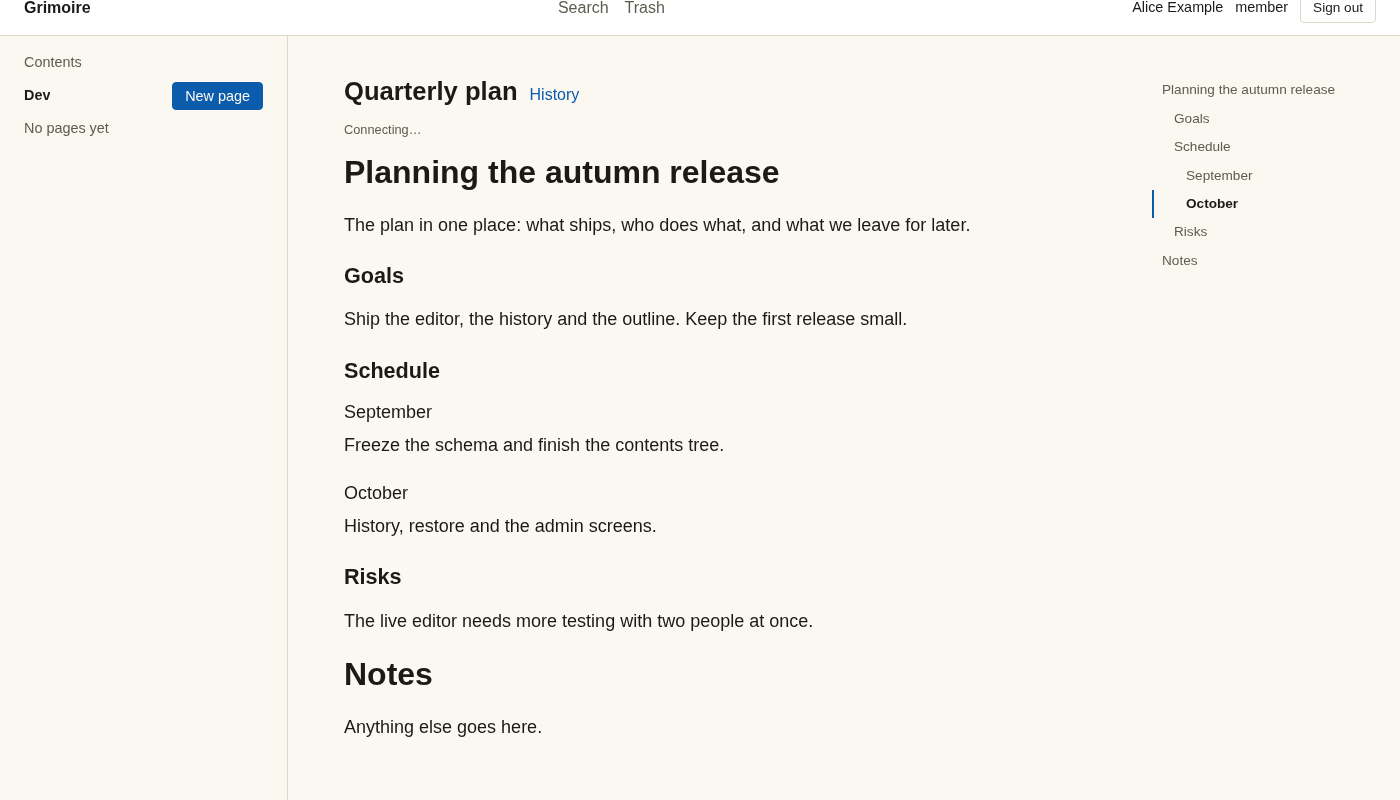
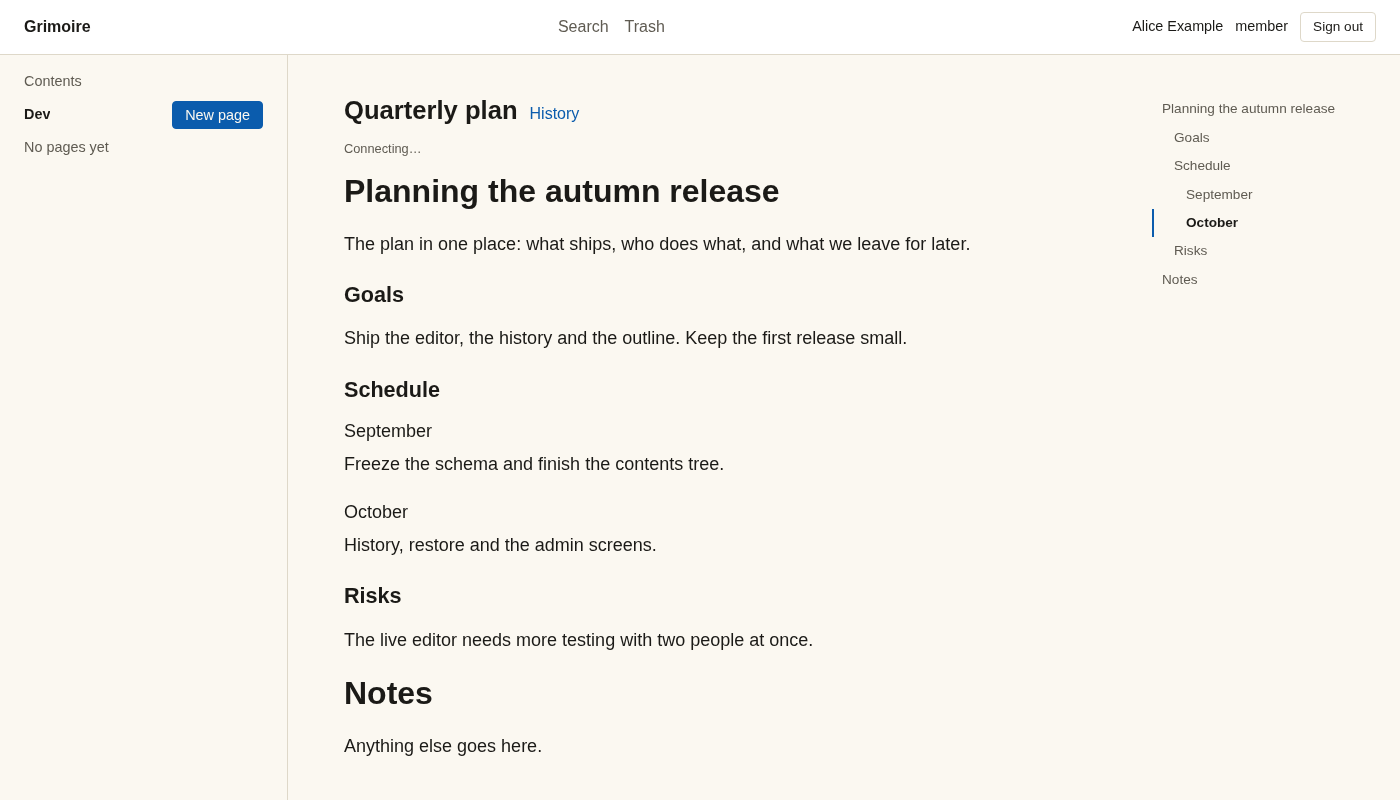
fix(web): the outline leaves a visible heading where it is; shots retaken with the header in view

diff --git a/apps/web/test/outline/outline.test.tsx b/apps/web/test/outline/outline.test.tsx
@@ -72,6 +72,20 @@ describe('the outline of a page', () => {
     expect(document.activeElement).toBe(editor);
   });
 
+  it('leaves the page where it is when the heading is already in the window, and brings it to the middle when it is not', async () => {
+    const { editor } = renderPage([[1, 'A'], [1, 'B']]);
+    await settle();
+    const target = editor.querySelectorAll('h1')[1] as HTMLElement;
+    const scroll = vi.fn();
+    target.scrollIntoView = scroll;
+    target.getBoundingClientRect = () => ({ top: 100, bottom: 140 }) as DOMRect;
+    await userEvent.click(screen.getByRole('link', { name: 'B' }));
+    expect(scroll).toHaveBeenLastCalledWith({ block: 'nearest' });
+    target.getBoundingClientRect = () => ({ top: 5000, bottom: 5040 }) as DOMRect;
+    await userEvent.click(screen.getByRole('link', { name: 'B' }));
+    expect(scroll).toHaveBeenLastCalledWith({ block: 'center' });
+  });
+
   it('marks the heading the cursor is in as the current one', async () => {
     const { editor } = renderPage([[1, 'A'], [2, 'B'], [1, 'C']]);
     await settle();

diff --git a/apps/web/src/outline/index.tsx b/apps/web/src/outline/index.tsx
@@ -93,7 +93,9 @@ export function Outline() {
     const surface = root.querySelector<HTMLElement>('.ProseMirror') ?? root;
     surface.focus({ preventScroll: true });
     window.getSelection()?.collapse(target, 0);
-    target.scrollIntoView({ block: 'center' });
+    // A heading already in the window stays where it is (the page does not jump); one that is not comes to the middle of it.
+    const box = target.getBoundingClientRect();
+    target.scrollIntoView({ block: box.top >= 0 && box.bottom <= window.innerHeight ? 'nearest' : 'center' });
   }, []);
 
   const move = (event: KeyboardEvent<HTMLUListElement>): void => {
